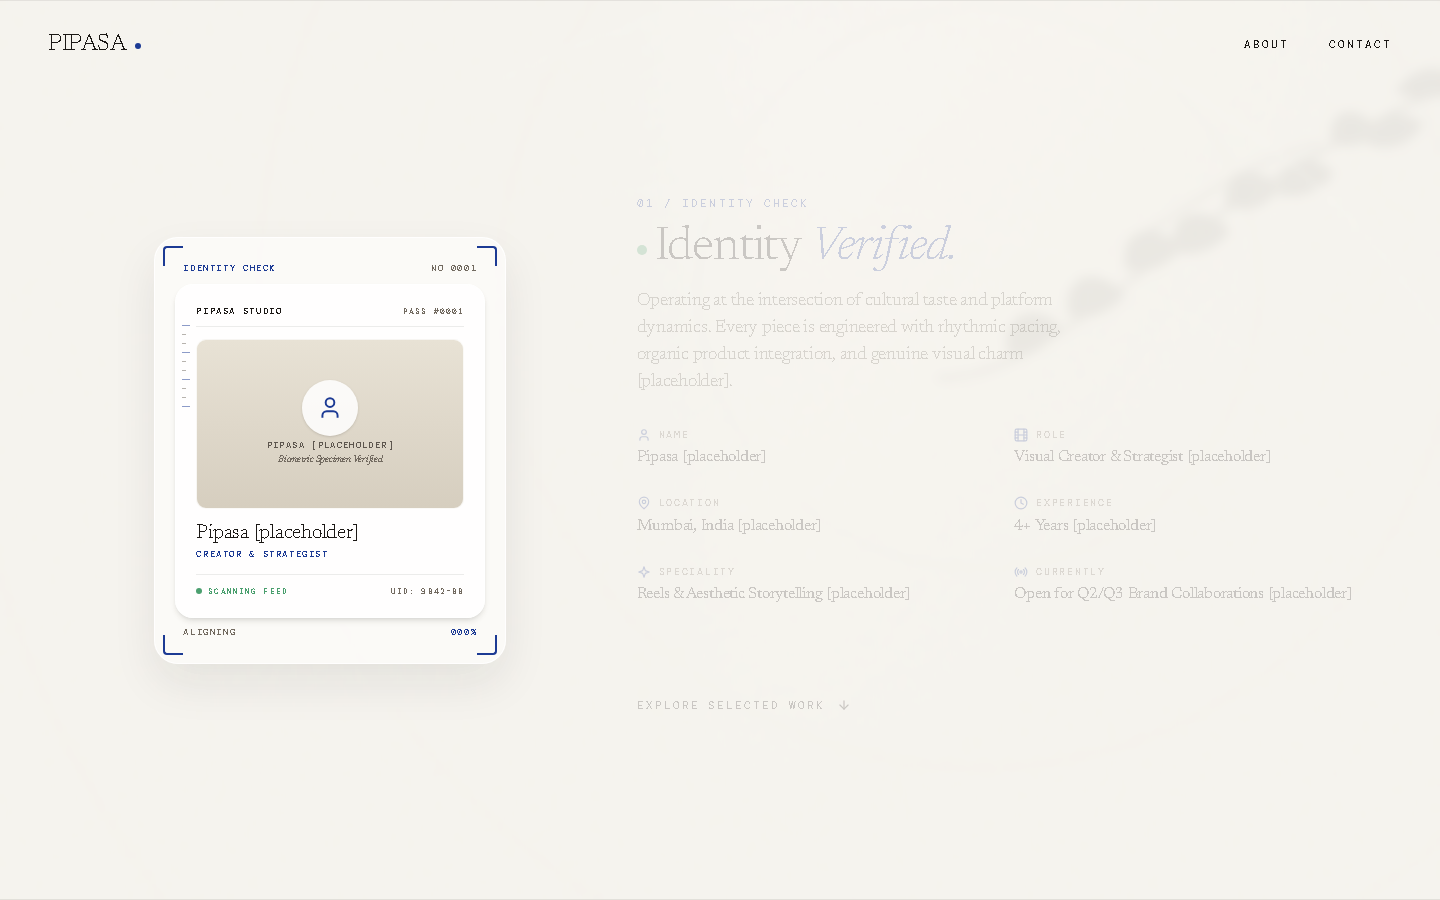
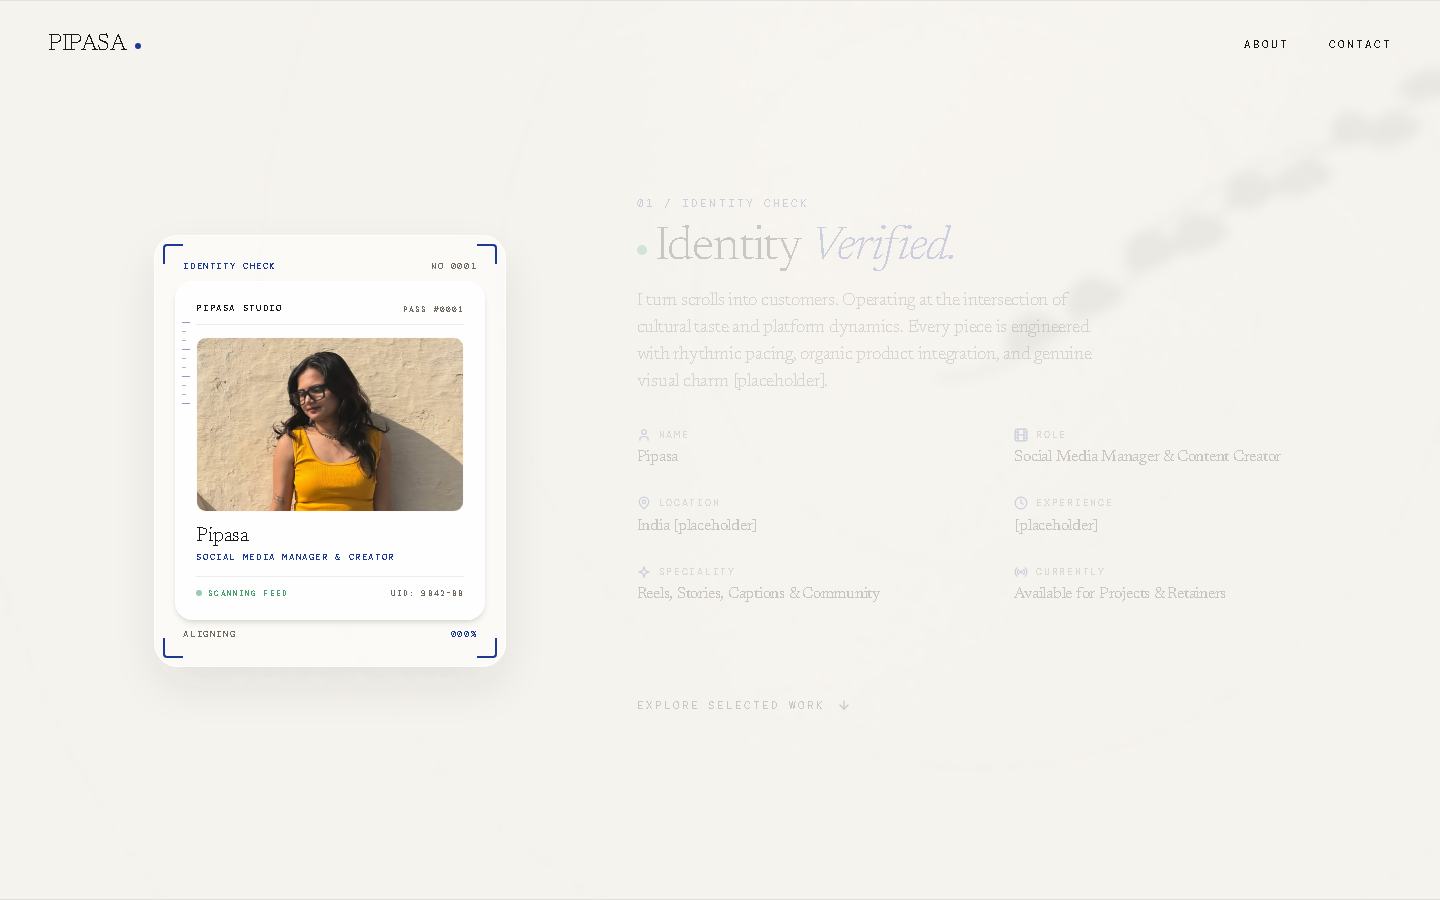
feat: add Pipasa portrait photo and exact copy for tagline, role, WhatsApp, Instagram, and contact closing line

diff --git a/src/content.ts b/src/content.ts
@@ -68,6 +68,7 @@ export interface ContentData {
     name: string;
     rolePrefix: string;
     role: string;
+    tagline: string;
     bio: string;
     primaryCta: {
       label: string;
@@ -144,11 +145,11 @@ export interface ContentData {
 
 export const content: ContentData = {
   meta: {
-    title: "Pipasa [placeholder] — Content Creator & Creative Strategist",
+    title: "Pipasa — Social Media Manager & Content Creator",
     description:
-      "Official portfolio of Pipasa [placeholder]. High-retention short-form video storytelling, brand campaigns, and creative strategy for modern brands.",
+      "I plan, shoot and edit content that makes brands easy to remember and easy to say yes to. Reels, stories, captions, and the community behind them.",
     siteUrl: "https://pipasa.portfolio.website [placeholder]",
-    author: "Pipasa [placeholder]",
+    author: "Pipasa",
   },
 
   navigation: {
@@ -162,7 +163,7 @@ export const content: ContentData = {
 
   loader: {
     scriptName: "Pipasa",
-    role: "content creator & strategist [placeholder]",
+    role: "social media manager & content creator",
     footerNote: "Portfolio, 2026",
   },
 
@@ -172,11 +173,12 @@ export const content: ContentData = {
     nameLead: "I'm ",
     name: "Pipasa,",
     rolePrefix: "a ",
-    role: "content creator & strategist.",
-    bio: "Crafting editorial short-form reels, cultural narratives, and viral visual stories that turn casual scrollers into loyal brand communities [placeholder].",
+    role: "social media manager & content creator.",
+    tagline: "I turn scrolls into customers.",
+    bio: "I plan, shoot and edit content that makes brands easy to remember and easy to say yes to. Reels, stories, captions, and the community behind them.",
     primaryCta: {
-      label: "START A PROJECT",
-      href: "#contact",
+      label: "MESSAGE ON WHATSAPP",
+      href: "https://wa.me/916371151811",
     },
     secondaryCta: {
       label: "ABOUT PIPASA",
@@ -186,9 +188,9 @@ export const content: ContentData = {
       serial: "No 0001",
       passType: "Studio pass - 2026",
       status: "Available for work",
-      name: "Pipasa [placeholder]",
-      role: "CREATOR & STRATEGIST",
-      photo: "/placeholder-portrait.jpg",
+      name: "Pipasa",
+      role: "SOCIAL MEDIA MANAGER & CREATOR",
+      photo: "/pipasa.png",
       nfcLabel: "NFC 2.4GHz",
       brandMark: "PIPASA STUDIO",
     },
@@ -210,19 +212,19 @@ export const content: ContentData = {
     headingFirstPart: "Identity",
     headingAccentWord: "Verified.",
     paragraph:
-      "Operating at the intersection of cultural taste and platform dynamics. Every piece is engineered with rhythmic pacing, organic product integration, and genuine visual charm [placeholder].",
+      "I turn scrolls into customers. Operating at the intersection of cultural taste and platform dynamics. Every piece is engineered with rhythmic pacing, organic product integration, and genuine visual charm [placeholder].",
     stampText: "VERIFIED CREATOR • 2026 • OFFICIAL STUDIO PASS • ",
     cta: {
       label: "EXPLORE SELECTED WORK",
       href: "#work",
     },
     facts: [
-      { label: "NAME", value: "Pipasa [placeholder]", icon: "user" },
-      { label: "ROLE", value: "Visual Creator & Strategist [placeholder]", icon: "film" },
-      { label: "LOCATION", value: "Mumbai, India [placeholder]", icon: "map-pin" },
-      { label: "EXPERIENCE", value: "4+ Years [placeholder]", icon: "clock" },
-      { label: "SPECIALITY", value: "Reels & Aesthetic Storytelling [placeholder]", icon: "sparkles" },
-      { label: "CURRENTLY", value: "Open for Q2/Q3 Brand Collaborations [placeholder]", icon: "radio" },
+      { label: "NAME", value: "Pipasa", icon: "user" },
+      { label: "ROLE", value: "Social Media Manager & Content Creator", icon: "film" },
+      { label: "LOCATION", value: "India [placeholder]", icon: "map-pin" },
+      { label: "EXPERIENCE", value: "[placeholder]", icon: "clock" },
+      { label: "SPECIALITY", value: "Reels, Stories, Captions & Community", icon: "sparkles" },
+      { label: "CURRENTLY", value: "Available for Projects & Retainers", icon: "radio" },
     ],
   },
 
@@ -242,14 +244,14 @@ export const content: ContentData = {
         bgColor: "#f7f1e8",
         accentColor: "#b87d4b",
         platform: "Instagram Reel",
-        metric: "1.4M views [placeholder]",
-        secondaryMetric: "142K saves [placeholder]",
+        metric: "[placeholder]",
+        secondaryMetric: "[placeholder]",
         quoteItalic: "cinematic framing meets quiet contemplation",
         description:
           "An intimate after-dark narrative exploring urban solitude with anamorphic lens textures and organic soundscapes [placeholder].",
-        tags: ["Cinematic", "4K Video", "Sound Design", "Lifestyle"],
+        tags: ["Reels", "Visual Poetry", "Captions", "Audio Design"],
         coverImage: "/work-1.jpg",
-        linkUrl: "https://instagram.com/reel/[placeholder-1]",
+        linkUrl: "https://www.instagram.com/pipashha/",
       },
       {
         id: "reel-02",
@@ -260,14 +262,14 @@ export const content: ContentData = {
         bgColor: "#e3eae3",
         accentColor: "#416c4f",
         platform: "Brand Campaign",
-        metric: "890K views [placeholder]",
-        secondaryMetric: "19.2% share rate [placeholder]",
+        metric: "[placeholder]",
+        secondaryMetric: "[placeholder]",
         quoteItalic: "seamless daily ritual integration",
         description:
-          "Four-part organic living series spotlighting clean herbal formulations, driving a 3.8x surge in brand profile visits [placeholder].",
-        tags: ["Product Storytelling", "Color Grading", "Aesthetic"],
+          "Four-part organic living series spotlighting clean herbal formulations, driving repeat engagement across stories and reels [placeholder].",
+        tags: ["Product Storytelling", "Brand Aesthetic", "Retention"],
         coverImage: "/work-2.jpg",
-        linkUrl: "https://instagram.com/reel/[placeholder-2]",
+        linkUrl: "https://www.instagram.com/pipashha/",
       },
       {
         id: "reel-03",
@@ -278,14 +280,14 @@ export const content: ContentData = {
         bgColor: "#e1e7f5",
         accentColor: "#1c3a94",
         platform: "Fashion Editorial",
-        metric: "2.1M views [placeholder]",
-        secondaryMetric: "320K likes [placeholder]",
+        metric: "[placeholder]",
+        secondaryMetric: "[placeholder]",
         quoteItalic: "kinetic cuts synced to tempo",
         description:
-          "High-cadence transition reel crafted for contemporary Indian streetwear, balancing raw street energy with editorial precision [placeholder].",
-        tags: ["Fashion Film", "Beat Matching", "Audio Architecture"],
+          "High-cadence transition reel crafted for contemporary streetwear, balancing raw street energy with editorial precision [placeholder].",
+        tags: ["Pacing", "Beat Matching", "Community Growth"],
         coverImage: "/work-3.jpg",
-        linkUrl: "https://instagram.com/reel/[placeholder-3]",
+        linkUrl: "https://www.instagram.com/pipashha/",
       },
       {
         id: "reel-04",
@@ -296,14 +298,14 @@ export const content: ContentData = {
         bgColor: "#fceee5",
         accentColor: "#bc5a32",
         platform: "Beauty Partnership",
-        metric: "1.7M views [placeholder]",
-        secondaryMetric: "94K saves [placeholder]",
+        metric: "[placeholder]",
+        secondaryMetric: "[placeholder]",
         quoteItalic: "unfiltered macro textures in natural light",
         description:
-          "Zero-filter direct sun demonstration highlighting radiant finish, generating the brand's top-converting seasonal asset [placeholder].",
-        tags: ["Beauty", "Natural Lighting", "UGC Conversion"],
+          "Zero-filter direct sun demonstration highlighting radiant finish, creating high-intent conversations in the comment section [placeholder].",
+        tags: ["UGC Direct", "Conversion", "Authenticity"],
         coverImage: "/work-4.jpg",
-        linkUrl: "https://instagram.com/reel/[placeholder-4]",
+        linkUrl: "https://www.instagram.com/pipashha/",
       },
     ],
   },
@@ -317,10 +319,10 @@ export const content: ContentData = {
       {
         tab: "First",
         verb: "DISCOVER",
-        italicPhrase: "unearthing the core tension",
+        italicPhrase: "unearthing the core brand tension",
         description:
           "Deconstructing audience psyche, trending cultural motifs, and sonic timing before filming a single frame [placeholder].",
-        tags: ["Trend Research", "Creative Angle", "Hook Strategy"],
+        tags: ["Strategy", "Hooks", "Audience Psyche"],
         bgColor: "#f8f5ee",
         tabAlign: "left",
       },
@@ -340,7 +342,7 @@ export const content: ContentData = {
         italicPhrase: "deliberate tactile aesthetics",
         description:
           "Capturing cinematic natural light, rich Foley sound stems, and genuine human presence that cuts through algorithmic noise [placeholder].",
-        tags: ["Direction", "Lighting Design", "Audio Capture"],
+        tags: ["Shooting", "Editing", "Color & Audio"],
         bgColor: "#e1e7f2",
         tabAlign: "right-center",
       },
@@ -360,31 +362,31 @@ export const content: ContentData = {
   contact: {
     badgeTitle: "CONTACT No 0001",
     name: "PIPASA",
-    role: "CREATOR • STRATEGIST • COLLABORATOR",
-    headline: "Let's Build Something",
-    highlight: "Beautiful.",
+    role: "SOCIAL MEDIA MANAGER • CREATOR",
+    headline: "Have a brand that needs to be seen?",
+    highlight: "Let's talk.",
     subtext:
-      "Available for selected brand campaigns, visual directing, and creative retainers for 2026. Reach out directly below [placeholder].",
+      "I plan, shoot and edit content that makes brands easy to remember and easy to say yes to. Reach out directly below.",
     email: "hello.pipasa@studio.in [placeholder]",
     copiedNotice: "Email copied to clipboard!",
-    qrPrompt: "Scan to connect instantly",
+    qrPrompt: "Scan to connect on WhatsApp",
     socials: [
       {
-        label: "INSTAGRAM",
-        value: "@pipasa [placeholder]",
-        href: "https://instagram.com/[placeholder]",
-        icon: "instagram",
-      },
-      {
         label: "WHATSAPP",
-        value: "+91 98765 43210 [placeholder]",
-        href: "https://wa.me/919876543210?text=Hi%20Pipasa [placeholder]",
+        value: "+91 63711 51811",
+        href: "https://wa.me/916371151811",
         icon: "message-circle",
       },
       {
+        label: "INSTAGRAM",
+        value: "@pipashha",
+        href: "https://www.instagram.com/pipashha/",
+        icon: "instagram",
+      },
+      {
         label: "MEDIA KIT",
-        value: "Download 2026 Kit (PDF) [placeholder]",
-        href: "#download-kit [placeholder]",
+        value: "Download Media Kit (PDF) [placeholder]",
+        href: "#download-kit",
         icon: "download",
       },
     ],

diff --git a/src/components/IdBadge.tsx b/src/components/IdBadge.tsx
@@ -154,33 +154,24 @@ export default function IdBadge({ isLoaded = true }: IdBadgeProps) {
             </div>
           </div>
 
-          {/* Portrait Photo Area (Placeholder) */}
-          <div className="my-2.5 md:my-4 relative w-full h-[135px] sm:h-[185px] md:h-[240px] rounded-[10px] md:rounded-[12px] overflow-hidden bg-gradient-to-b from-[#ebe5da] via-[#dfd8ca] to-[#d3ccbd] border border-white/70 shadow-inner flex flex-col items-center justify-center text-center p-3">
-            <div className="w-12 h-12 md:w-20 md:h-20 rounded-full bg-white/75 border border-white shadow-sm flex items-center justify-center text-[#1c3a94] mb-1.5 md:mb-2">
-              <svg
-                width="24"
-                height="24"
-                className="md:w-9 md:h-9"
-                viewBox="0 0 24 24"
-                fill="none"
-                stroke="currentColor"
-                strokeWidth="1.6"
-                strokeLinecap="round"
-                strokeLinejoin="round"
-              >
-                <path d="M19 21v-2a4 4 0 0 0-4-4H9a4 4 0 0 0-4 4v2" />
-                <circle cx="12" cy="7" r="4" />
-              </svg>
-            </div>
-            <span className="font-mono text-[8px] md:text-[10px] tracking-[0.16em] uppercase text-[#5d564e] font-medium">
-              [Photo Placeholder]
-            </span>
-            <span className="font-serif italic text-[10px] md:text-xs text-[#726a60]">
-              Pipasa • Portrait
-            </span>
+          {/* Portrait Photo Area */}
+          <div className="my-2.5 md:my-4 relative w-full h-[145px] sm:h-[195px] md:h-[250px] rounded-[10px] md:rounded-[12px] overflow-hidden bg-[#ebe5da] border border-white/80 shadow-inner flex items-center justify-center">
+            {content.hero.badge.photo ? (
+              <img
+                src={content.hero.badge.photo}
+                alt={content.hero.badge.name}
+                className="w-full h-full object-cover object-[center_16%]"
+              />
+            ) : (
+              <div className="flex flex-col items-center justify-center text-center p-3">
+                <span className="font-mono text-[8px] md:text-[10px] tracking-[0.16em] uppercase text-[#5d564e] font-medium">
+                  [Photo Placeholder]
+                </span>
+              </div>
+            )}
 
             {/* Subtle frosted tag overlay in corner */}
-            <div className="absolute bottom-2 left-2 px-1.5 py-0.5 md:px-2 md:py-1 rounded bg-black/40 backdrop-blur-md text-white font-mono text-[7px] md:text-[8px] tracking-[0.16em]">
+            <div className="absolute bottom-2 left-2 px-1.5 py-0.5 md:px-2 md:py-1 rounded bg-black/50 backdrop-blur-md text-white font-mono text-[7px] md:text-[8px] tracking-[0.16em]">
               OFFICIAL CREATOR
             </div>
           </div>

diff --git a/src/components/IdentityCheck.tsx b/src/components/IdentityCheck.tsx
@@ -233,19 +233,20 @@ export default function IdentityCheck() {
               </div>
 
               {/* Photo representation in scanner */}
-              <div className="my-3 relative w-full h-[140px] sm:h-[170px] rounded-[10px] overflow-hidden bg-gradient-to-b from-[#e8e2d5] to-[#d6cebf] border border-white/80 flex flex-col items-center justify-center text-center">
-                <div className="w-14 h-14 rounded-full bg-white/85 shadow-sm flex items-center justify-center text-[#1c3a94] mb-1">
-                  <svg width="26" height="26" viewBox="0 0 24 24" fill="none" stroke="currentColor" strokeWidth="1.8">
-                    <path d="M19 21v-2a4 4 0 0 0-4-4H9a4 4 0 0 0-4 4v2" />
-                    <circle cx="12" cy="7" r="4" />
-                  </svg>
-                </div>
-                <span className="font-mono text-[8.5px] tracking-[0.16em] uppercase text-[#5d564e]">
-                  {content.hero.badge.name}
-                </span>
-                <span className="font-serif italic text-[10px] text-[#726a60]">
-                  Biometric Specimen Verified
-                </span>
+              <div className="my-3 relative w-full h-[145px] sm:h-[175px] rounded-[10px] overflow-hidden bg-[#ebe5da] border border-white/80 shadow-inner flex items-center justify-center">
+                {content.hero.badge.photo ? (
+                  <img
+                    src={content.hero.badge.photo}
+                    alt={content.hero.badge.name}
+                    className="w-full h-full object-cover object-[center_16%]"
+                  />
+                ) : (
+                  <div className="flex flex-col items-center justify-center text-center p-3">
+                    <span className="font-mono text-[8.5px] tracking-[0.16em] uppercase text-[#5d564e]">
+                      {content.hero.badge.name}
+                    </span>
+                  </div>
+                )}
               </div>
 
               <div className="text-left mt-2">

diff --git a/src/components/Hero.tsx b/src/components/Hero.tsx
@@ -97,6 +97,18 @@ export default function Hero({ isLoaded }: HeroProps) {
             </span>
           </h1>
 
+          {/* Tagline */}
+          <div
+            className="font-serif italic text-[17px] sm:text-xl text-[#1c3a94] font-normal -mt-2 mb-4 transition-all duration-[900ms] ease-[cubic-bezier(0.16,1,0.3,1)]"
+            style={{
+              opacity: revealed ? 1 : 0,
+              transform: revealed ? "translateY(0)" : "translateY(24px)",
+              transitionDelay: "420ms",
+            }}
+          >
+            &ldquo;{content.hero.tagline}&rdquo;
+          </div>
+
           {/* Paragraph in serif ~18-20px, soft ink, max ~34ch */}
           <p
             className="font-serif font-light text-[#5d564e] text-base sm:text-lg md:text-[19.5px] leading-[1.48] max-w-[34ch] mb-6 sm:mb-9 transition-all duration-[900ms] ease-[cubic-bezier(0.16,1,0.3,1)]"
@@ -118,9 +130,11 @@ export default function Hero({ isLoaded }: HeroProps) {
               transitionDelay: "600ms",
             }}
           >
-            {/* Primary Filled Cobalt Pill: START A PROJECT */}
+            {/* Primary Filled Cobalt Pill: MESSAGE ON WHATSAPP */}
             <a
               href={content.hero.primaryCta.href}
+              target={content.hero.primaryCta.href.startsWith("http") ? "_blank" : undefined}
+              rel={content.hero.primaryCta.href.startsWith("http") ? "noopener noreferrer" : undefined}
               className="group inline-flex items-center gap-3 px-5 sm:px-7 py-3 sm:py-3.5 rounded-full bg-[#1c3a94] hover:bg-[#142c74] text-white font-mono text-[10.5px] sm:text-[11.5px] tracking-[0.18em] uppercase transition-all duration-300 ease-[cubic-bezier(0.16,1,0.3,1)] shadow-[0_4px_14px_rgba(28,58,148,0.25)] hover:shadow-[0_6px_20px_rgba(28,58,148,0.35)] active:scale-[0.98]"
             >
               <span>{content.hero.primaryCta.label}</span>
